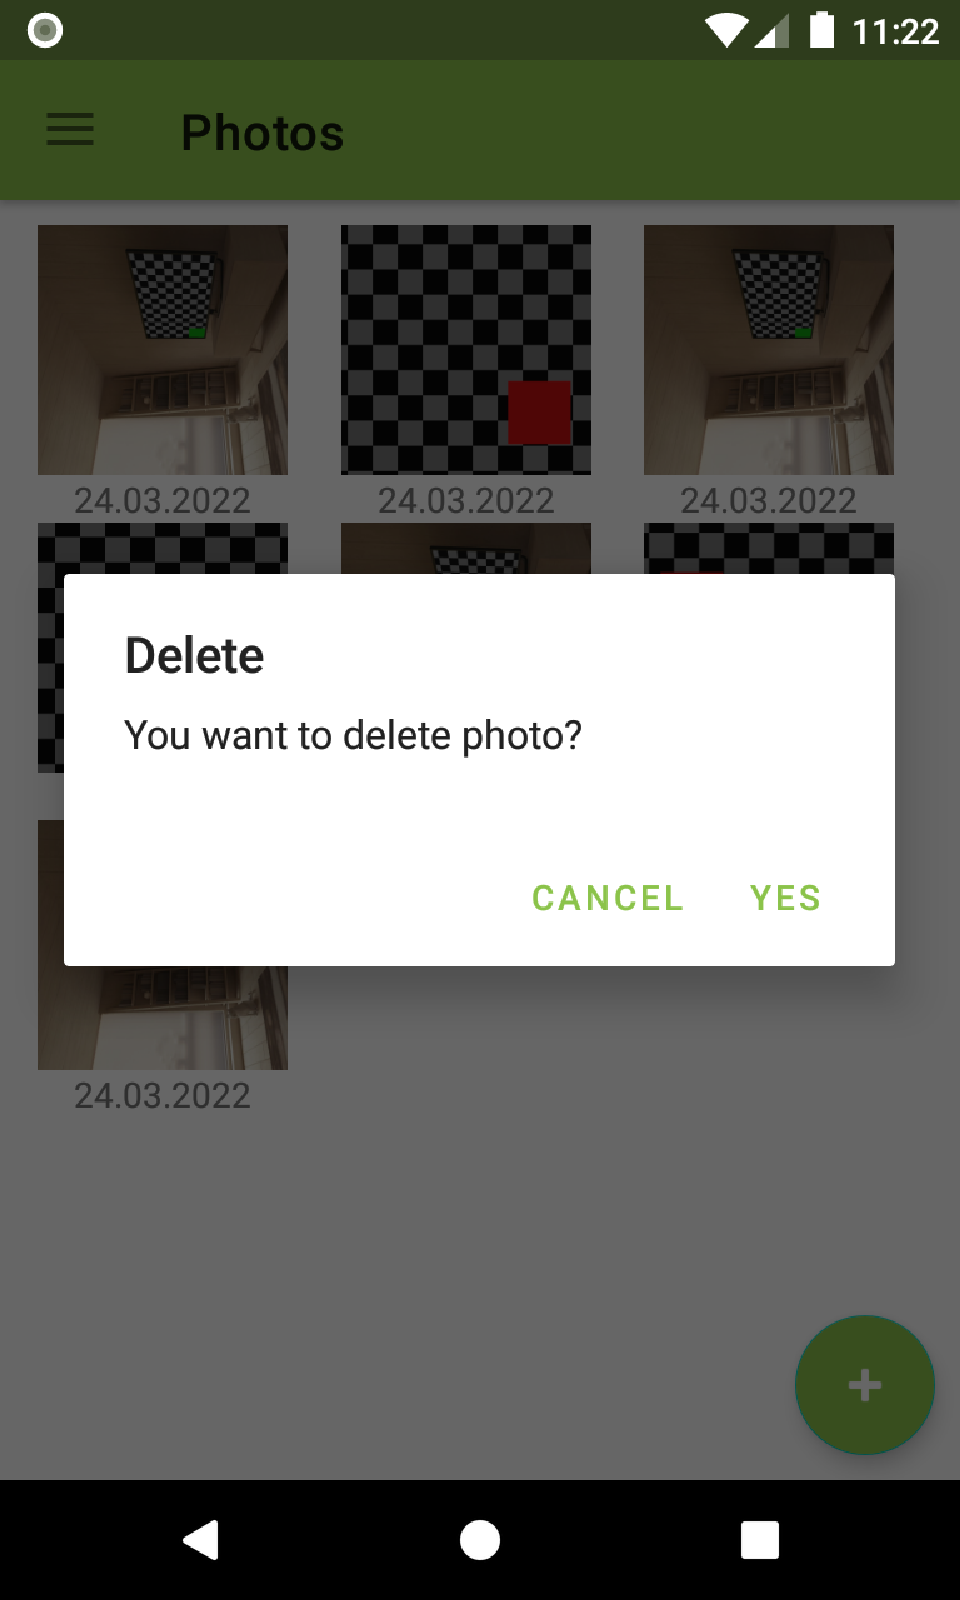
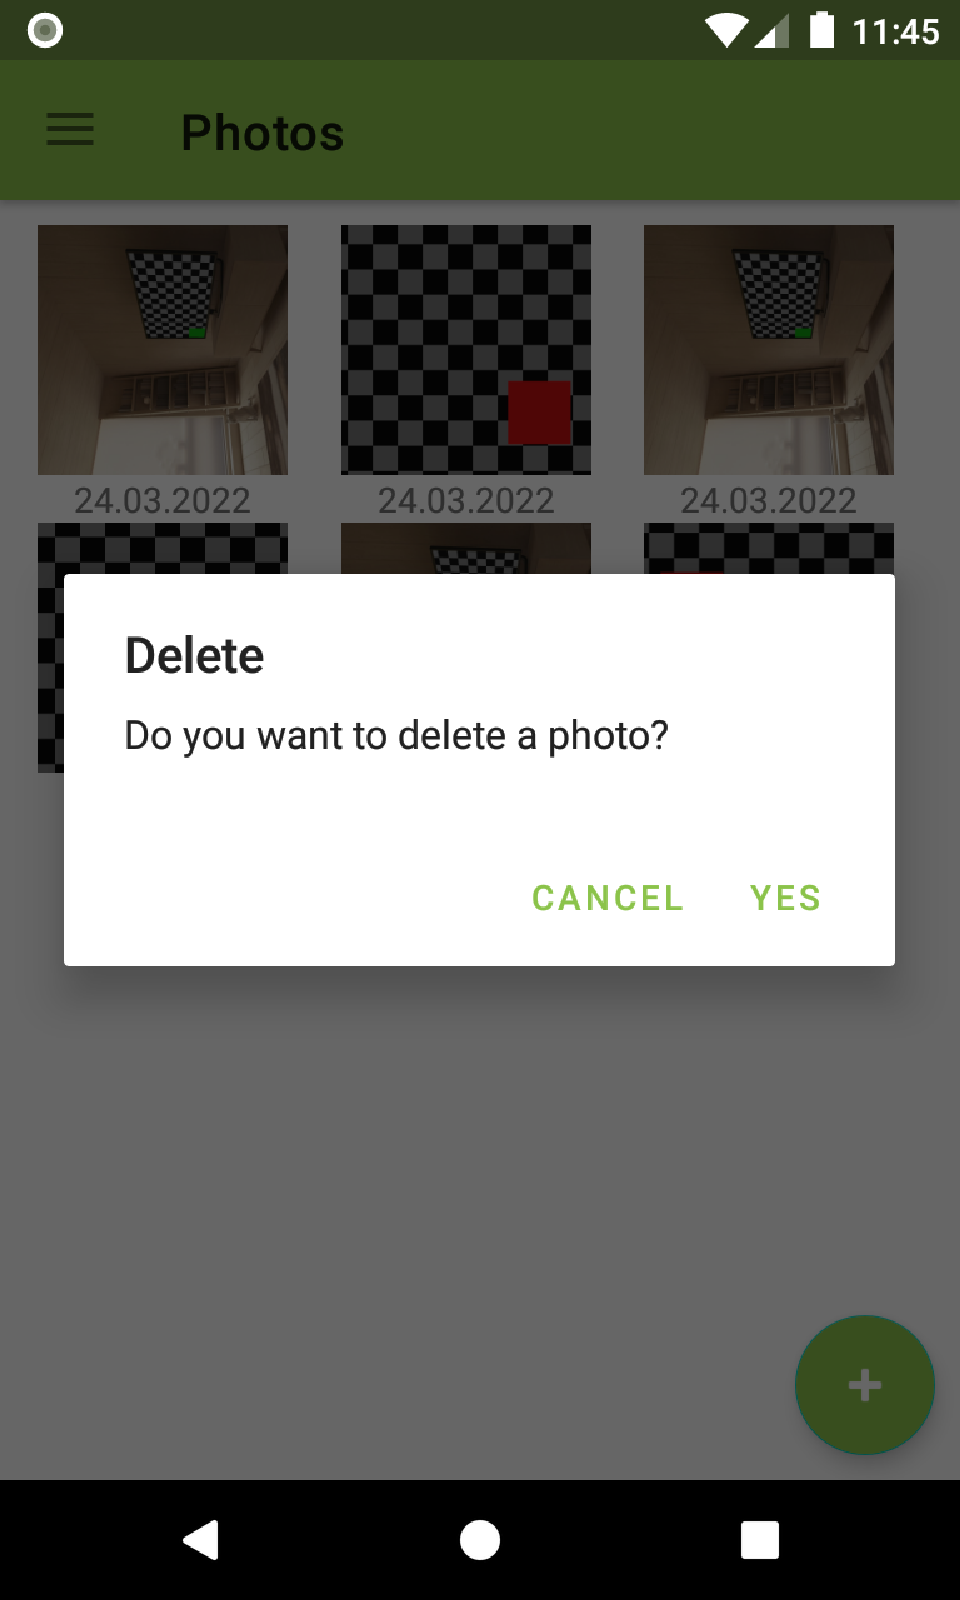
add screenshots_1

Changed region(s): [[0.0312, 0.5, 0.3125, 0.6875], [0.125, 0.4375, 0.6875, 0.4688], [0.9375, 0.0, 1.0, 0.0312]]

diff --git a/app/src/main/java/com/example/photosdemo/ui/fragments/photos/PhotosFragment.kt b/app/src/main/java/com/example/photosdemo/ui/fragments/photos/PhotosFragment.kt
@@ -149,7 +149,7 @@ class PhotosFragment : Fragment(), LocationListener {
         viewModel.selectedImage = photos[position]
         builder.run {
             setTitle("Delete")
-            setMessage("You want to delete photo?")
+            setMessage("Do you want to delete a photo?")
             setPositiveButton("Yes") { _, _ ->
                 deleteAllComments()
                 withDelay(500) { deleteImage(position) }

diff --git a/app/src/main/java/com/example/photosdemo/ui/fragments/details/DetailsFragment.kt b/app/src/main/java/com/example/photosdemo/ui/fragments/details/DetailsFragment.kt
@@ -90,7 +90,7 @@ class DetailsFragment : Fragment() {
         val builder = AlertDialog.Builder(activity)
         builder.run {
             setTitle("Delete")
-            setMessage("You want to delete comment?")
+            setMessage("Do you want to delete a comment?")
             setPositiveButton("Yes") { _, _ ->
                 deleteComment(position)
             }
